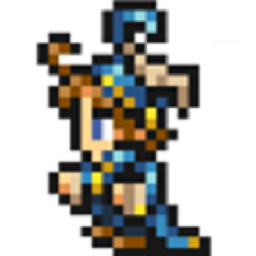
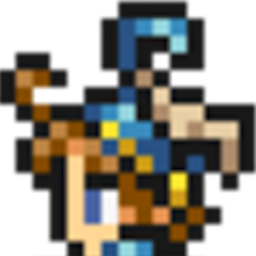
Add ability and record materia commands
This commit adds the ability and record materia commands to the
extension. It removes the need to have multi-name requests in quotes. It
adds new icons for varying sizes and gets rid of the white background in
the extension icon.

diff --git a/popup.js b/popup.js
@@ -1,7 +1,6 @@
 var bgPage = chrome.extension.getBackgroundPage();
 const apiBase = "http://ffrkapi.azurewebsites.net/api/v1.0/";
-let sbURL = apiBase + "/SoulBreaks/Name/";
-let $results = $("#results");
+
 const elementDict = {
   0: "unknown",
   1: "",
@@ -297,13 +296,22 @@ const characterAliases = {
 };
 
 const sbRegex = /SB|SSB|BSB|USB|CSB|chain|OSB|AOSB|ASB|UOSB|GSB|FSB|Glint/gi; //lcsb is caught by the CSB
-const cmdRegex = /SB|SSB|BSB|USB|CSB|chain|OSB|AOSB|ASB|UOSB|GSB|FSB|Glint|lm|lmr/gi;
+const cmdRegex = /SB|SSB|BSB|USB|CSB|chain|OSB|AOSB|ASB|UOSB|GSB|FSB|Glint|lm|lmr|abil|ability|rm/gi;
+
+
+// createAbilityDict().then(data => {
+//   abilDict = data;
+// });
 
 
 $(function () {
+  let dictSequence = Promise.resolve();
+  let abilDict = {};
+
+  createAbilityDict().then(function(data) { abilDict = data; });
+  //createCharacterDict().then(function(data) { charDict = data; }); TODO
 	$("#search-button").click(function(e) {
     e.preventDefault();
-
     //based on command, send data to correct function
     //functions handle the data and return the formatted HTML
     //the formatted HTML is added to a variable until loop is finished.
@@ -314,15 +322,21 @@ $(function () {
     $("#results").html("");
     let requests = parseRequests(query);
     let sequence = Promise.resolve();
-
     requests.forEach(function(request) {
       sequence = sequence.then(function() {
         if(request.length > 1 && request[1].match(sbRegex)) {
           return parseSBRequest(request);
         }
-        else if(request.length > 1 && request[1] === "lm" || request[1] === "lmr") {
+        else if(request.length > 1 && request[1] === "lm" || request[1] === "lmr") { //if i did contains.("lm") that could be too generic
           let charID = getCharacterID(request[0]);
           return getLMsForCharID(charID);
+        }
+        else if(request.length > 1 && request[1] === "abil" || request[1] === "ability") {
+          return getAbility(request[0], abilDict);
+        }
+        else if(request.length > 1 && request[1] === "rm") {
+          //TODO RM aliases
+          return getRecordMateria(request[0]);
         }
         else {
           return getSoulBreak(request);
@@ -344,7 +358,7 @@ function parseRequests(text) {
   //search for commas - if commas are present, split into multiple commands
   if(text.includes(';')) {
     let queries = text.split(';');
-    queries.forEach(function(query) { //for each request, grab command and character name
+    queries.forEach(function(query) { //for each request, grab command and request text
       query = query.trim();
       requests.push(getParts(query));
     });
@@ -355,23 +369,15 @@ function parseRequests(text) {
   return requests;
 }
 
-/**
- * Gets parts of a query depending on the text
- */
 function getParts(query) {
-    let parts = [];
-    if (query.includes('"')) {
-        parts = query.split('"');
-        parts.shift(); //get rid of empty element
-    } else {
-        parts = query.split(" ");
-    }
-
-    if(parts.length > 1 && parts[1].match(cmdRegex)) {
-      parts[0] = searchAliases(parts[0]);
-      parts[1] = parts[1].trim().toLowerCase();
-    }
-    return parts;
+  let parts = [];
+  let words = query.trim().split(" ");
+  let cmd = words.pop().toLowerCase();
+  if(cmd.match(cmdRegex)) {
+    parts[0] = searchAliases(words.join(" "));
+    parts[1] = cmd;
+  }
+  return parts;
 }
 
 /**
@@ -510,7 +516,7 @@ function getTierSBsForCharID(charID, cbParams) {
 function getLMsForCharID(charID) {
   return new Promise(function(resolve, reject) {
     $.getJSON(apiBase + "/LegendMaterias/Character/" + charID, function(json) {
-      let LMs = "<div class='sb-result'><h3 class='character__name'>" + json[0].characterName + "</h3>"; //get the character name once
+      let LMs = "<div class='sb-result result'><h3 class='character__name'>" + json[0].characterName + "</h3>"; //get the character name once
       json.forEach((json) => {
         LMs += formatLMJSON(json);
       });
@@ -532,6 +538,40 @@ function getSoulBreak(request) {
         SBs += formatSBJSON(json);
       });
       resolve(SBs);
+    });
+  });
+}
+
+/**
+ * TODO map IdLists to abilities
+ */
+function getAbility(abilityName, abilDict) {
+  let abilName = abilityName.toLowerCase();
+  if(abilName in abilDict) {
+    let id = abilDict[abilName];
+    return new Promise(function(resolve,reject) {
+      $.getJSON(apiBase + "/Abilities/" + id, function(json) {
+        let abil = "";
+        json.forEach((json) => {
+          abil += formatAbilityJSON(json);
+        });
+        resolve(abil);
+      });
+    });
+  }
+  else {
+    return Promise.reject(new Error(abilityName + ' is not an acceptable ability name'));
+  }
+}
+
+function getRecordMateria(rmName) {
+  return new Promise(function(resolve, reject) {
+    $.getJSON(apiBase + "/RecordMaterias/Name/" + rmName, function(json) {
+      let RMs = "";
+      json.forEach((json) => {
+        RMs += formatRMJSON(json);
+      });
+      resolve(RMs);
     });
   });
 }
@@ -590,7 +630,7 @@ function formatSBJSON(json) {
         statuses += "<span class='status__name'>" + json.statuses[i].description + "</span>";
         statuses += "<p class='braveMode__condition'>Condition - " + json.braveActions[0].braveCondition + "</p>";
         statuses += "<div class='flex'><span class='margin-right braveMode__castTime'>Cast Time - " + json.braveActions[0].castTime + "</span>";
-        statuses += "<span class='braveMode__elements'>Elements - ";
+        statuses += "<span class='braveMode__elements'>";
         statuses += formatElements(json.braveActions[0]);
         statuses += "</span></div>";
         for(let j = 0; j < json.braveActions.length; j++) {
@@ -654,6 +694,45 @@ function formatLMJSON(json) {
 }
 
 /**
+ * This function will format the Record Materia JSON into a human-readable result.
+ * @param json - the JSON from the API query
+ */
+function formatRMJSON(json) {
+  let start = "<div class='result'>";
+  let name = "<h3 class='result__name'>" + json.recordMateriaName + "</h3>";
+  let icon = "<div class='icon-container'><img class='icon' src='" + json.imagePath.split('"')[0] + "'/>";
+  let effect = "<p class='effect'>" + json.effect + "</p></div>";
+  let unlock = "<p class='info'>Unlock Criteria - " + json.unlockCriteria + "</p>";
+  let end = "</div>";
+  return start + name + icon + effect + unlock +  end;
+}
+
+function formatAbilityJSON(json) {
+  let start = "<div class='result'>";
+  let name = "<h3 class='result__name'>" + json.abilityName + "</h3>";
+  let icon = "<div class='icon-container'><img class='icon' src='" + json.imagePath.split('"')[0] + "'/>";
+  let effect = "<p class='effect'>" + json.effects + "</p></div>";
+  let flexDiv = "<div class='flex'>";
+  let castTime = "<span class='margin-right info'>Cast Time - " + json.castTime + "</span>";
+  let elements = "<span class='elements info'>Elements - " + formatElements(json) + "</span>";
+  let endDiv = "</div>";
+  return start + name + icon + effect + flexDiv + castTime + elements + endDiv + formatOrbRequirements(json) + endDiv;
+}
+
+function createAbilityDict() {
+  let abilDict = {};
+  return new Promise(function(resolve,reject) {
+    $.getJSON(apiBase + "IdLists/Ability", function(abilJSON) {
+      abilJSON.forEach((json) => {
+        abilDict[json.value.toLowerCase()] = json.key;
+      });
+      resolve(abilDict);
+    });
+  });
+}
+
+
+/**
  * This helper function will find the element name to match the ID passed in
  * @param elementID - the element ID
  * @returns human readable element name
@@ -668,14 +747,48 @@ function parseElementNumber(elementID) {
   }
 }
 
-
 function formatElements(json) {
   let elements = "";
-  for (let j = 0; j < json.elements.length; j++) { //TODO put this loop in a helper function?
+  for (let j = 0; j < json.elements.length; j++) {
     elements += parseElementNumber(json.elements[j]);
     if (j !== json.elements.length - 1) {
       elements += ", ";
     }
   }
   return elements;
+}
+
+function formatOrbRequirements(json) {
+  let orbReqs = "<p class='info'>Hone Requirements</p><table class='info' border='1'><thead>";
+  let headerRow = "<tr><th>Rank</th>";
+  let row1 = "<tbody class='center'><tr><td>R1</td>";
+  let row2 = "<tr><td>R2</td>";
+  let row3 = "<tr><td>R3</td>";
+  let row4 = "<tr><td>R4</td>";
+  let row5 = "<tr><td>R5</td>";
+  for(let i = 0; i < json.orbRequirements.length; i++) {
+    switch(i % 5) {
+      case 0:
+        if(json.orbRequirements[i].orbName !== "Ability Record") {
+          headerRow += "<th>" + json.orbRequirements[i].orbName + "</th>";
+          row1 += "<td>" + json.orbRequirements[i].orbCount + "</td>";
+        }
+        break;
+      case 1:
+        row2 += "<td>" + json.orbRequirements[i].orbCount + "</td>";
+        break;
+      case 2:
+        row3 += "<td>" + json.orbRequirements[i].orbCount + "</td>";
+        break;
+      case 3:
+        row4 += "<td>" + json.orbRequirements[i].orbCount + "</td>";
+        break;
+      case 4:
+        row5 += "<td>" + json.orbRequirements[i].orbCount + "</td>";
+        break;
+    }
+  }
+  headerRow += "</tr></thead>";
+  row5 += "</tbody></table>";
+  return orbReqs + headerRow + row1 + row2 + row3 + row4 + row5;
 }

diff --git a/ffrk.css b/ffrk.css
@@ -1,5 +1,5 @@
 #body {
-  width: 300px;
+  width: 370px;
   height: 100px;
   max-height: 400px;
 }
@@ -22,12 +22,26 @@ h3, span, #search-button, #search-text, .title__desc {
   font-family: 'Lato', sans-serif;
 }
 
-p, .cmd span, .braveMode__elements, .braveMode__castTime, .entry__elements, .entry__castTime { /** TODO change these rules to something simpler */
+p, .cmd span, .braveMode__elements, .braveMode__castTime, .entry__elements, .entry__castTime, .info { /** TODO change these rules to something simpler */
   font-family: 'Merriweather', serif;
 }
 
 p {
   margin: 8px 0;
+}
+
+table {
+  border-collapse: collapse;
+  margin-bottom: 5px;
+  width: 100%;
+}
+
+th {
+  font-weight: normal;
+}
+
+th, td {
+  padding: 1px 3px;
 }
 
 #search-text {
@@ -56,14 +70,14 @@ p {
   padding-bottom: 14px;
 }*/
 
-.sb-result {
+.sb-result, .result {
   margin-top: 12px;
   border: 1px solid gray;
   border-radius: 5px;
   padding: 5px;
 }
 
-.sb-result:last-child {
+.sb-result:last-child, .result:last-child {
   margin-bottom: 16px;
 }
 
@@ -80,13 +94,22 @@ p {
   display: flex;
 }
 
-.sb-result__icon {
+.sb-result__icon, .lg-icon {
   float: left;
   min-height: 64px;
   min-width: 64px;
   height: 64px;
   width: 64px;
   margin-left: -10px;
+}
+
+.icon {
+  float: left;
+  min-height: 52px;
+  min-width: 52px;
+  height: 52px;
+  width: 52px;
+  margin: 0 5px 0 -2px;
 }
 
 .sb-result__effect {
@@ -104,7 +127,7 @@ p {
   align-items: center;
 }
 
-.cmd__icon {
+.cmd__icon, .sm-icon {
   min-height: 32px;
   min-width: 32px;
   height: 32px;
@@ -132,12 +155,16 @@ p {
   margin: 0.5rem 0 0.25rem 0;
 }
 
-.lm__container {
+.lm__container, .icon-container {
   display: flex;
   align-items: center;
 }
 
-.character__name {
+.icon-container {
+  margin-bottom: 8px;
+}
+
+.character__name, .result__name {
   margin: 0 0 8px 0;
 }
 
@@ -161,4 +188,8 @@ p {
 
 .flex {
   display: flex;
+}
+
+.center {
+  text-align: center;
 }

diff --git a/popup.html b/popup.html
@@ -14,6 +14,6 @@
 			<input id="search-text" type="text" autofocus>
       <input id="search-button" type="submit" value="Search">
 		</form>
-    <span id="results"></span>
+    <div id="results"></div>
 	</body>
 </html>
